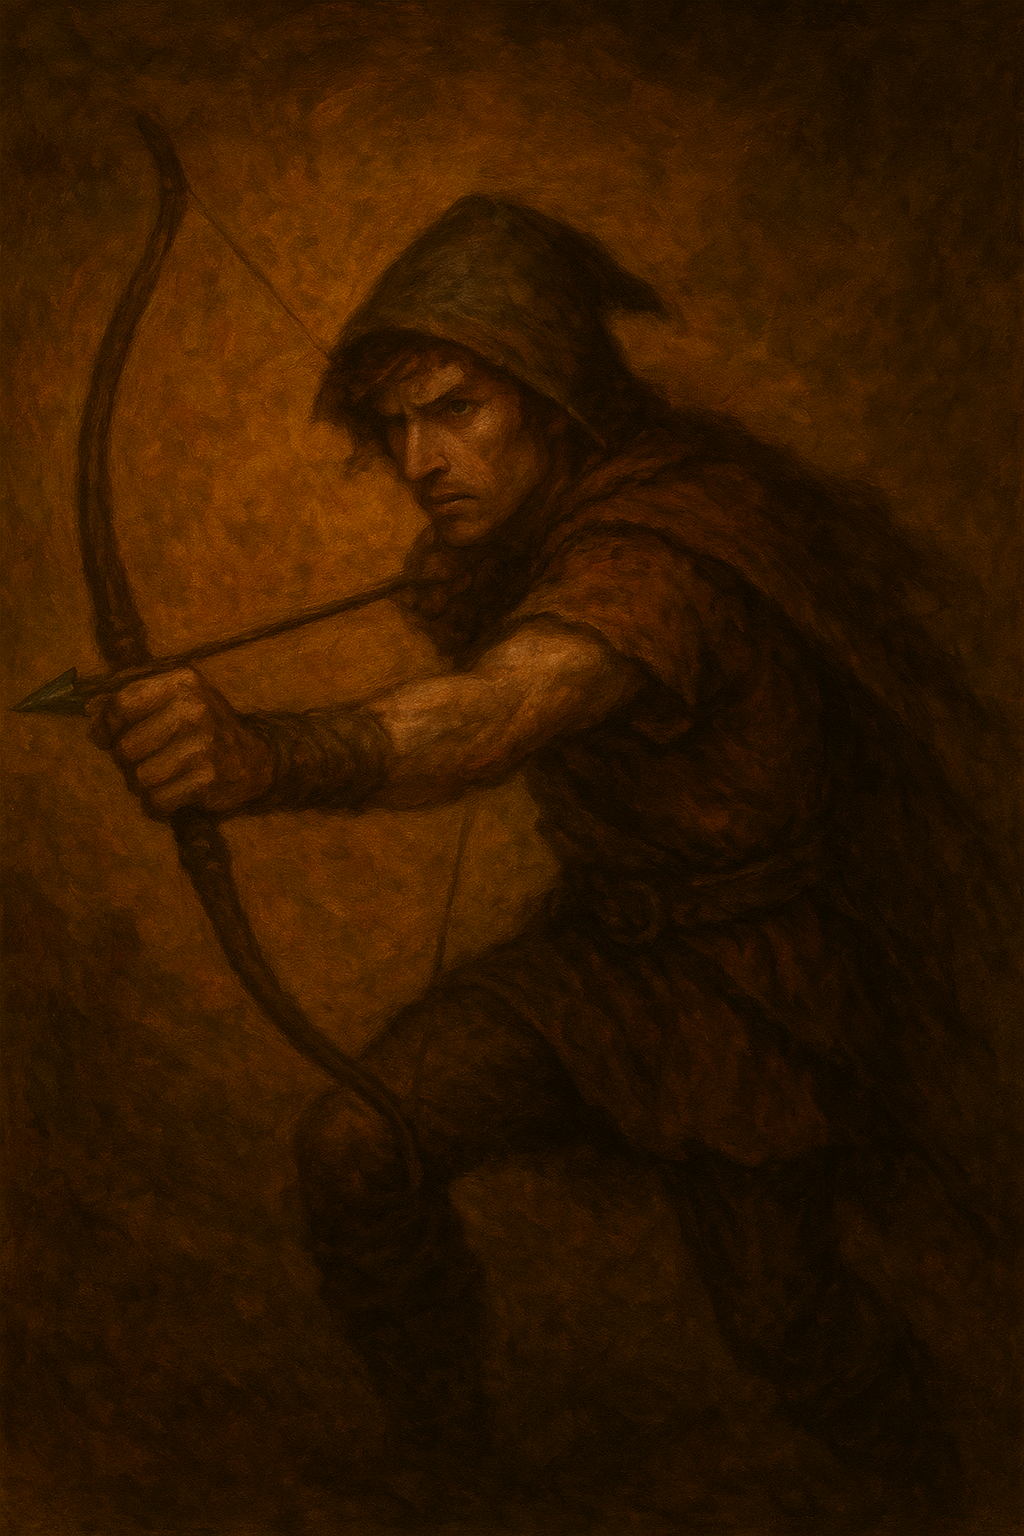
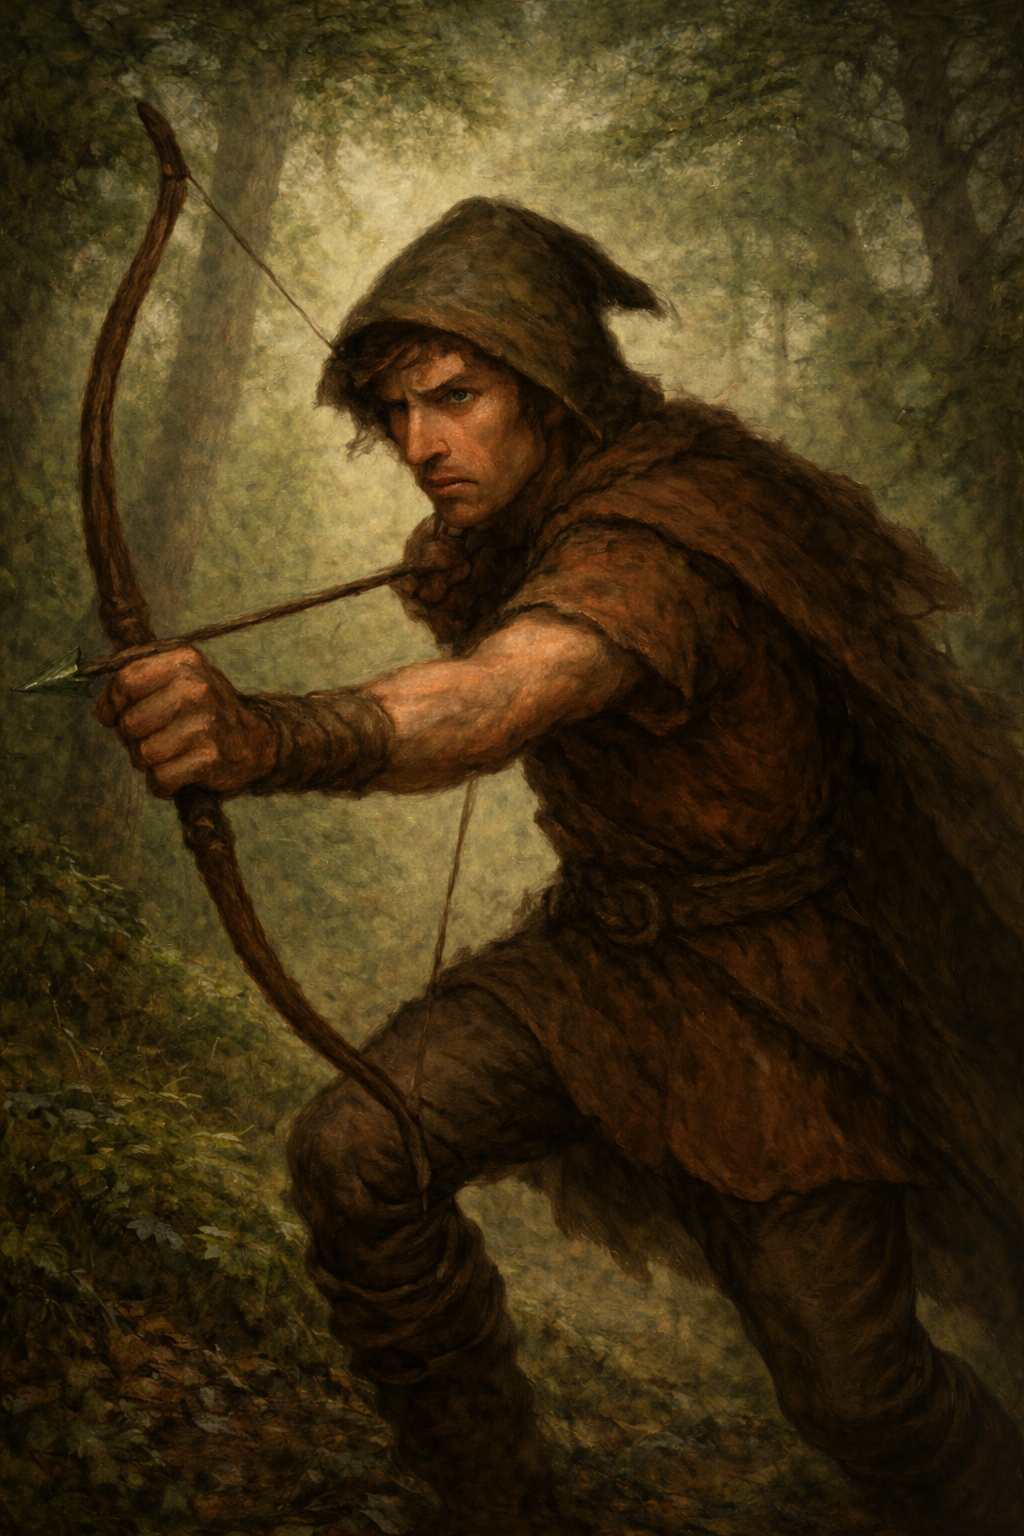
changed deck indicators to use same createCardBack() function the opponent's cards in hand use. Adjusted positioning of decks in boardLayout. Made changes to the look of cards in hand and on board, almost entirely design based code. Added some new card artworks.

diff --git a/lib/pixi/rendering/CardRenderer.ts b/lib/pixi/rendering/CardRenderer.ts
@@ -12,14 +12,14 @@ const LAYOUT = {
   // Art area
   ART_X: 6,
   ART_Y: 12,
-  ART_WIDTH_INSET: 12,      // artWidth = CARD_WIDTH - ART_WIDTH_INSET
-  ART_HEIGHT: 82,           // roughly 60% of the card height
+  ART_WIDTH_INSET: 12, // artWidth = CARD_WIDTH - ART_WIDTH_INSET
+  ART_HEIGHT: 82, // roughly 60% of the card height
 
   // Name banner
-  NAME_Y: 82,               // Overlaps bottom of art
+  NAME_Y: 82, // Overlaps bottom of art
   NAME_HEIGHT: 20,
-  NAME_X_INSET: 4,          // horizontal padding from the edge of a card
-  NAME_WIDTH_INSET: 8,      // CARD_WIDTH - 8
+  NAME_X_INSET: 4, // horizontal padding from the edge of a card
+  NAME_WIDTH_INSET: 8, // CARD_WIDTH - 8
 
   // Description area
   DESC_Y: 106,
@@ -28,13 +28,13 @@ const LAYOUT = {
   DESC_LINE_HEIGHT: 9,
 
   // Badges
-  BADGE_Y_OFFSET: 20,       // How far badges hang below card bottom
+  BADGE_Y_OFFSET: 20, // How far badges hang below card bottom
   BADGE_LEFT_X: -8,
-  BADGE_RIGHT_X_INSET: 20,  // rightBadgeX = CARD_WIDTH - BADGE_RIGHT_X_INSET
+  BADGE_RIGHT_X_INSET: 20, // rightBadgeX = CARD_WIDTH - BADGE_RIGHT_X_INSET
 
   // Mana crystal
-    MANA_X: -8,
-    MANA_Y: -8,
+  MANA_X: -8,
+  MANA_Y: -8,
 
   // Decorative frame elements
   FRAME_OUTER_ALPHA: 0.6,
@@ -80,9 +80,9 @@ export class CardRenderer {
         CARD_DIMENSIONS.BORDER_RADIUS,
       ),
     );
-    container.addChild(this.createCardBackground(card));
+    container.addChild(this.createCardBackground());
     container.addChild(this.createArtArea(card));
-    container.addChild(this.createCardFrame(card.element));
+    container.addChild(this.createCardFrame());
 
     if (showName) {
       const nameBanner = this.createNameBanner(card.name);
@@ -137,9 +137,9 @@ export class CardRenderer {
         CARD_DIMENSIONS.BORDER_RADIUS,
       ),
     );
-    container.addChild(this.createCardBackground(minion));
+    container.addChild(this.createCardBackground());
     container.addChild(this.createArtArea(minion));
-    container.addChild(this.createCardFrame(minion.element));
+    container.addChild(this.createCardFrame());
 
     const isDamaged = minion.currentHealth < minion.health;
 
@@ -236,10 +236,10 @@ export class CardRenderer {
     return glow;
   }
 
-  // --- Structural Components ---------------------------------------------------  
+  // --- Structural Components ---------------------------------------------------
 
   // Dark background with element-colored border
-  private createCardBackground(card: Card | Minion): PIXI.Graphics {
+  private createCardBackground(): PIXI.Graphics {
     const bg = new PIXI.Graphics();
 
     bg.roundRect(
@@ -249,8 +249,8 @@ export class CardRenderer {
       this.CARD_HEIGHT,
       CARD_DIMENSIONS.BORDER_RADIUS,
     );
-    bg.fill({ color: COLORS.UI.darkBg, alpha: 1.0 });
-    bg.stroke({ width: 3, color: this.getElementBorderColor(card.element) });
+    bg.fill({ color: COLORS.UI.cardBg, alpha: 1.0 });
+    bg.stroke({ width: 3, color: COLORS.UI.gold });
 
     return bg;
   }
@@ -307,7 +307,7 @@ export class CardRenderer {
   }
 
   // Decorative frame overlay - element-coloured inner glow
-  private createCardFrame(element: string): PIXI.Graphics {
+  private createCardFrame(): PIXI.Graphics {
     const frame = new PIXI.Graphics();
 
     frame.roundRect(
@@ -317,17 +317,23 @@ export class CardRenderer {
       this.CARD_HEIGHT,
       CARD_DIMENSIONS.BORDER_RADIUS,
     );
-    frame.stroke({ width: 2, color: COLORS.UI.gold, alpha: LAYOUT.FRAME_OUTER_ALPHA });
+    frame.stroke({
+      width: 2,
+      color: COLORS.UI.gold,
+      alpha: LAYOUT.FRAME_OUTER_ALPHA,
+    });
 
     // Inner element glow
-    frame.roundRect(LAYOUT.FRAME_INSET,
+    frame.roundRect(
+      LAYOUT.FRAME_INSET,
       LAYOUT.FRAME_INSET,
       this.CARD_WIDTH - LAYOUT.FRAME_INSET * 2,
       this.CARD_HEIGHT - LAYOUT.FRAME_INSET * 2,
-      LAYOUT.FRAME_INNER_RADIUS,);
+      LAYOUT.FRAME_INNER_RADIUS,
+    );
     frame.stroke({
       width: 1,
-      color: this.getElementBorderColor(element),
+      color: COLORS.UI.gold,
       alpha: LAYOUT.FRAME_INNER_ALPHA,
     });
 
@@ -344,7 +350,13 @@ export class CardRenderer {
     const banner = new PIXI.Container();
 
     const bg = new PIXI.Graphics();
-    bg.roundRect(LAYOUT.NAME_X_INSET, 0, this.CARD_WIDTH - LAYOUT.NAME_WIDTH_INSET, LAYOUT.NAME_HEIGHT, 4);
+    bg.roundRect(
+      LAYOUT.NAME_X_INSET,
+      0,
+      this.CARD_WIDTH - LAYOUT.NAME_WIDTH_INSET,
+      LAYOUT.NAME_HEIGHT,
+      4,
+    );
     bg.fill({ color: COLORS.UI.darkBg, alpha: 0.92 });
     bg.stroke({ width: 1, color: COLORS.UI.gold, alpha: 0.8 });
     banner.addChild(bg);
@@ -374,7 +386,13 @@ export class CardRenderer {
     const area = new PIXI.Container();
 
     const bg = new PIXI.Graphics();
-    bg.roundRect(LAYOUT.NAME_X_INSET, 0, this.CARD_WIDTH - LAYOUT.NAME_WIDTH_INSET, LAYOUT.DESC_HEIGHT, 4);
+    bg.roundRect(
+      LAYOUT.NAME_X_INSET,
+      0,
+      this.CARD_WIDTH - LAYOUT.NAME_WIDTH_INSET,
+      LAYOUT.DESC_HEIGHT,
+      4,
+    );
     bg.fill({ color: COLORS.UI.darkBg, alpha: 0.7 });
     area.addChild(bg);
 
@@ -441,7 +459,7 @@ export class CardRenderer {
   }
 
   // --- Utility functions ---------------------------------------------------
-    private hasTauntAbility(minion: Minion): boolean {
+  private hasTauntAbility(minion: Minion): boolean {
     return (
       minion.abilities?.some(
         (ability) =>

diff --git a/lib/pixi/ui/DeckIndicator.ts b/lib/pixi/ui/DeckIndicator.ts
@@ -1,37 +1,31 @@
 import * as PIXI from 'pixi.js';
 import { COLORS } from '../utils/StyleConstants';
+import { CardRenderer } from '../rendering/CardRenderer';
+import { GraphicsHelpers } from '../utils/GraphicsHelpers';
 
 export class DeckIndicator {
+  private cardRenderer: CardRenderer;
+
+  constructor(cardRenderer: CardRenderer) {
+    this.cardRenderer = cardRenderer;
+  }
+
   createIndicator(cardCount: number, isAI: boolean): PIXI.Container {
     const container = new PIXI.Container();
 
-    // Deck icon
-    const deckIcon = new PIXI.Graphics();
-    deckIcon.roundRect(0, 0, 60, 80, 4);
-    deckIcon.fill({ color: COLORS.UI.deckBg, alpha: 0.9 });
-    deckIcon.stroke({ width: 2, color: COLORS.UI.gold });
-    container.addChild(deckIcon);
+    // Card back visual — reuses the same design as AI hand cards
+    const cardBack = this.cardRenderer.createCardBack();
+    container.addChild(cardBack);
 
-    // Card count badge
-    const badge = new PIXI.Graphics();
-    badge.circle(50, 10, 18);
-    badge.fill({ color: isAI ? COLORS.UI.red : COLORS.UI.blue, alpha: 0.95 });
-    badge.stroke({ width: 2, color: COLORS.UI.victory });
+    // Count badge overlaid on top right corner of the card back
+    const badge = GraphicsHelpers.createCircleBadge(
+      cardCount,
+      isAI ? COLORS.UI.red : COLORS.UI.blue,
+      16,
+    );
+    badge.x = 82;
+    badge.y = -8;
     container.addChild(badge);
-
-    const text = new PIXI.Text({
-      text: cardCount.toString(),
-      style: {
-        fontSize: 16,
-        fontWeight: 'bold',
-        fill: COLORS.UI.white,
-        stroke: { color: COLORS.UI.black, width: 2 },
-      },
-    });
-    text.x = 50;
-    text.y = 10;
-    text.anchor.set(0.5);
-    container.addChild(text);
 
     return container;
   }

diff --git a/lib/data/cards.ts b/lib/data/cards.ts
@@ -82,7 +82,7 @@ export const CARDS: Card[] = [
   },
   {
     id: 'f_epic_2',
-    name: 'Fomorian Pyromaniac',
+    name: 'Fomorian Pyromancer',
     element: 'fire',
     type: 'minion',
     rarity: 'epic',
@@ -90,7 +90,7 @@ export const CARDS: Card[] = [
     attack: 5,
     health: 5,
     description: 'Battlecry: Give all friendly minions +1 Attack.',
-    imageUrl: '',
+    imageUrl: '/images/cards/fomorianpyromancer.png',
     abilities: [
       {
         trigger: 'battlecry',
@@ -162,7 +162,7 @@ export const CARDS: Card[] = [
     attack: 3,
     health: 2,
     description: 'Battlecry: Deal 3 damage to your own hero.',
-    imageUrl: '',
+    imageUrl: '/images/cards/flameimp.png',
     abilities: [
       {
         trigger: 'battlecry',
@@ -183,7 +183,7 @@ export const CARDS: Card[] = [
     attack: 3,
     health: 1,
     description: 'Charge',
-    imageUrl: '',
+    imageUrl: '/images/cards/wildfirespirit.png',
     abilities: [
       {
         trigger: 'passive',
@@ -205,7 +205,7 @@ export const CARDS: Card[] = [
     manaCost: 1,
     attack: 2,
     health: 1,
-    description: 'Fast and fragile.',
+    description: 'A skilled scout of the forests.',
     imageUrl: '/images/cards/fiannascout.png'
   },
   {
@@ -218,7 +218,7 @@ export const CARDS: Card[] = [
     attack: 3,
     health: 2,
     description: 'Loyal soldier of Queen Maedhbh.',
-    imageUrl: ''
+    imageUrl: '/images/cards/warriorofmaedhbh.png'
   },
   {
     id: 'f_common_3',

diff --git a/lib/pixi/ui/UIManager.ts b/lib/pixi/ui/UIManager.ts
@@ -8,6 +8,7 @@ import { DeckIndicator } from './DeckIndicator';
 import { TurnIndicator } from './TurnIndicator';
 import { COLORS } from '../utils/StyleConstants';
 import { boardHasTaunt } from '@/lib/game/gameLogic';
+import { CardRenderer } from '../rendering/CardRenderer';
 
 export class UIManager {
   private portraitRenderer: PortraitRenderer;
@@ -26,12 +27,12 @@ export class UIManager {
   private turnIndicatorDisplay!: PIXI.Container;
   private endTurnButtonDisplay!: PIXI.Container;
 
-  constructor(layout: BoardLayout) {
+  constructor(layout: BoardLayout, cardRenderer: CardRenderer) {
     this.layout = layout;
     this.portraitRenderer = new PortraitRenderer();
     this.combatLogRenderer = new CombatLogRenderer();
     this.endTurnButton = new EndTurnButton();
-    this.deckIndicator = new DeckIndicator();
+    this.deckIndicator = new DeckIndicator(cardRenderer);
     this.turnIndicator = new TurnIndicator();
   }
 

diff --git a/lib/pixi/PixiBoard.ts b/lib/pixi/PixiBoard.ts
@@ -116,7 +116,7 @@ export class PixiBoard {
     
     this.boardLayout = new BoardLayout();
     this.cardRenderer = new CardRenderer();
-    this.uiManager = new UIManager(this.boardLayout);
+    this.uiManager = new UIManager(this.boardLayout, this.cardRenderer);
     this.handRenderer = new HandRenderer(this.cardRenderer, this.boardLayout, hoverHandler);
     this.minionRenderer = new MinionRenderer(this.cardRenderer, this.boardLayout, hoverHandler);
     this.boardRenderer = new BoardRenderer(this.boardLayout);

diff --git a/lib/pixi/layout/BoardLayout.ts b/lib/pixi/layout/BoardLayout.ts
@@ -286,11 +286,11 @@ export class BoardLayout {
   }
 
   getAIDeckPosition(): Position {
-    return { x: this.width * 0.90, y: this.height * 0.06 };
+    return { x: this.width * 0.855, y: this.height * 0.06 };
   }
 
   getPlayerDeckPosition(): Position {
-    return { x: this.width * 0.90, y: this.height * 0.72 };
+    return { x: this.width * 0.855, y: this.height * 0.72 };
   }
 
   getEndTurnButtonPosition(): Position {

diff --git a/lib/pixi/utils/StyleConstants.ts b/lib/pixi/utils/StyleConstants.ts
@@ -33,6 +33,7 @@ export const COLORS = {
     baseBG: 0x0a0e1a,        // Very dark blue - Main background
     darkBg: 0x1e293b,        // Slate-800 - Card text backgrounds
     deckBg: 0x2d1810,        // Dark brown - Deck/card back
+    cardBg: 0x2a1a0e,        // Warm dark brown - card background
 
     // Team Colors  
     blue: 0x3b82f6,          // Blue-500 - Player elements
